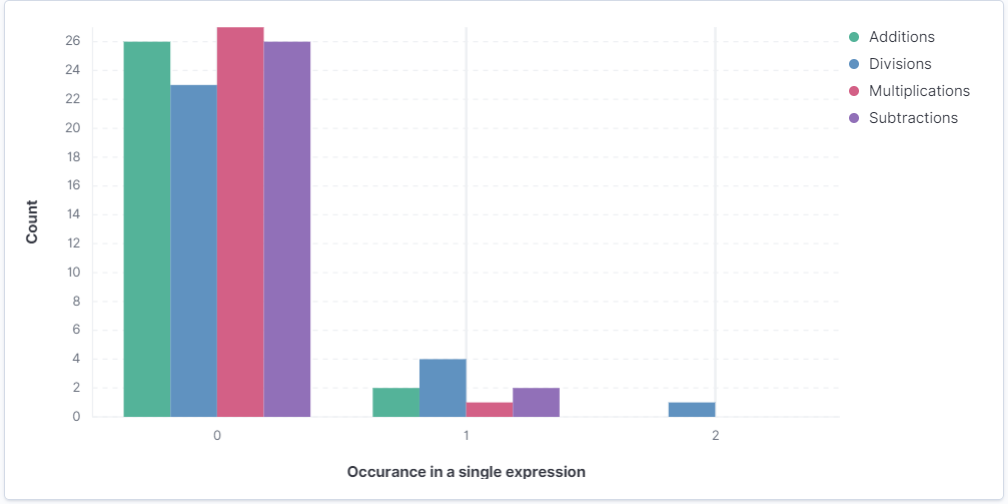
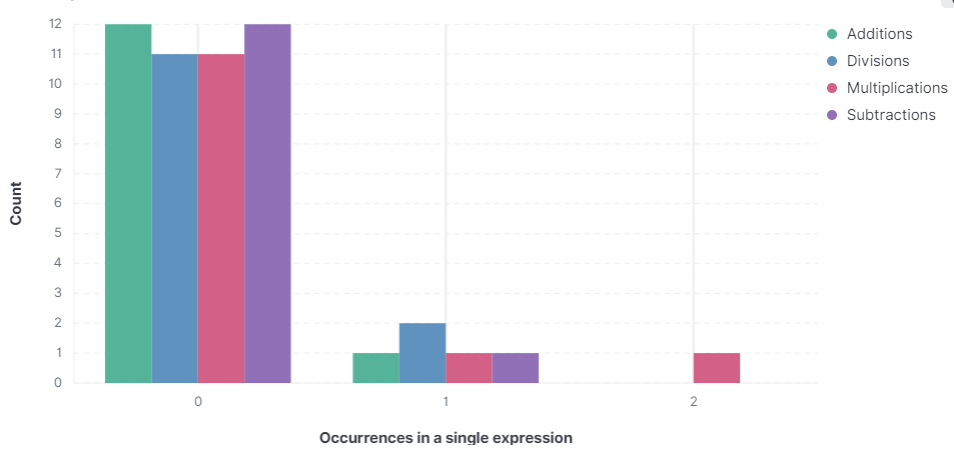
Add dashboard, add some reminders and fix some image texts

diff --git a/elk-analytics/step7.md b/elk-analytics/step7.md
@@ -6,6 +6,8 @@ Once again, navigate to the hamburger menu and this time click on `Dashboard`, j
 
 The default suggestions of Kibana when you try this with different fields will often not be what you want, however. So, we will now showcase three different ways you can visualize data.
 
+(Remember to save the graphs by clicking `Save and return` in the top right when you are done with them)
+
 ## Ratio of info to error message
 
 Välj donut-chart.
@@ -55,7 +57,7 @@ Open a new panel of type `Lens`. Drag and drop `calc_expr_validity.keyword` from
 To get the graph shown in the below image, choose the graph type `Pie` in the dropdown just above the graph. If you want to change the color palette, click the box under `Slice by` in the area to the right of the graph. Here you have several options, one of which is "Color palette".
 
 You should now have a graph that looks something like this:
-![Names-before](./assets/calc_validity_graph.png)
+![Calculator-expression-validity](./assets/calc_validity_graph.png)
 
 <b style="font-size:20px;">2. A graph showing how many times operators apppear in expressions</b>
 
@@ -67,9 +69,9 @@ Click the "bar symbols" above the graph to rename the axis.
 Next, in the layers to the right click the box under `Vertical axis` to rename the data series. Do this for all 4 layers and then click `Save and return` at the top right of the Kibana interface. 
 
 You should now have a graph that looks something like this:
-![Names-before](./assets/calc_operator_graph.png)
+![Calculator-operators](./assets/calc_operator_graph.png)
 
-This graph shows that the vast majority of the valid expressions come from users entering a number without any operators (and also pressing the equals button to evaluate it). This is the leftmost group of bars. The middle group shows how often an expression is evaluated with at exactly one of a certain operator. For instance, the middle green bar shows that only two expressions containing exactly one addition have been evaluated. Lastly, the third group shows that the only operator that has appeared more than once in an expression is the division operator, appearing twice in one expression.
+This graph shows that the vast majority of the valid expressions come from users entering a number without any operators (and also pressing the equals button to evaluate it). This is the leftmost group of bars. The middle group shows how often an expression is evaluated with at exactly one of a certain operator. For instance, the middle blue bar shows that only two expressions containing exactly one division have been evaluated. Lastly, the third group shows that the only operator that has appeared more than once in an expression is the multiplication operator, appearing twice in one expression.
 
 <b style="font-size:20px;">3. A graph showing how the traffic of the calculator page varies over time</b>  
 
@@ -81,9 +83,13 @@ If you manage to keep the tutorial going for long enough and keep using the calc
 
 Worth noting is that Kibana automatically chooses the width of the bars for you (for instance that each bar covers 30 seconds in time). You can manually change this in the same menu you chose `Date histogram` earlier.
 
-![Names-before](./assets/calc_traffic_graph.png)
+![Calculator-traffic](./assets/calc_traffic_graph.png)
 
 
 ## Final result
 
-Lägg in fin bild på vår Dashboard.
+If you have followed along with all the graphs we have created your `Dashboard` might look something like this (with some manual resizing of the graphs):
+
+![Dashboard](./assets/dashboard.png)
+
+(Remember to save the dashboard before browsing something else in Kibana)

diff --git a/elk-analytics/step4.md b/elk-analytics/step4.md
@@ -66,6 +66,7 @@ Open `docker-elk/docker-compose.yml`{{open}} and add the following under the `vo
     source: /root/logs/spring.log
     target: /usr/share/logstash/logfile.log
 ```{{copy}}
+**Note that the indentation has to be correct or else docker-compose will complain. Note the indentation style used in the file and follow it**
 
 This will map our `spring.log` file to a file called `logfile.log` inside the container (recall this was the path we added in the file-plugin in `logstash.conf`).
 
